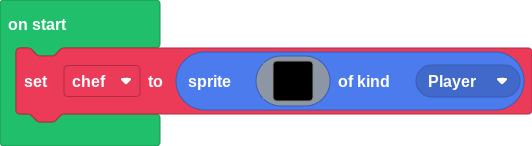
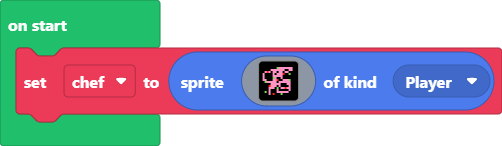
Update main.blocks, main.ts

diff --git a/main.ts b/main.ts
@@ -1,18 +1,18 @@
 let chef = sprites.create(img`
     . . . . . . . . . . . . . . . . 
-    . . . . . . . . . . . . . . . . 
-    . . . . . . . . . . . . . . . . 
-    . . . . . . . . . . . . . . . . 
-    . . . . . . . . . . . . . . . . 
-    . . . . . . . . . . . . . . . . 
-    . . . . . . . . . . . . . . . . 
-    . . . . . . . . . . . . . . . . 
-    . . . . . . . . . . . . . . . . 
-    . . . . . . . . . . . . . . . . 
-    . . . . . . . . . . . . . . . . 
-    . . . . . . . . . . . . . . . . 
-    . . . . . . . . . . . . . . . . 
-    . . . . . . . . . . . . . . . . 
-    . . . . . . . . . . . . . . . . 
+    . . . . . . . 7 3 3 3 3 3 3 3 . 
+    . . . . 3 3 3 3 3 3 3 . . 3 3 . 
+    . 3 2 3 . 3 3 . 3 3 . 3 3 . . . 
+    3 . . . . 3 . 3 3 3 2 . . 7 . . 
+    3 . . . . 3 3 3 3 3 . . . . . . 
+    3 . . . . 7 3 . . 3 . . . . . . 
+    3 3 . . . 3 3 2 . . 3 3 3 7 . . 
+    . 7 3 3 3 3 3 . 3 3 3 3 3 3 . . 
+    . . . . 3 3 3 3 3 . . . 3 3 . . 
+    . . . 2 3 3 3 . 3 . . . . 3 . . 
+    . . . 3 3 3 . 7 . 3 3 2 3 3 . . 
+    . . . 3 . . . 3 . . . . . 3 . . 
+    . 7 . 3 . . . 3 3 3 3 3 3 . . . 
+    . . . 3 . 2 . . . 7 . . . . . . 
     . . . . . . . . . . . . . . . . 
     `, SpriteKind.Player)
